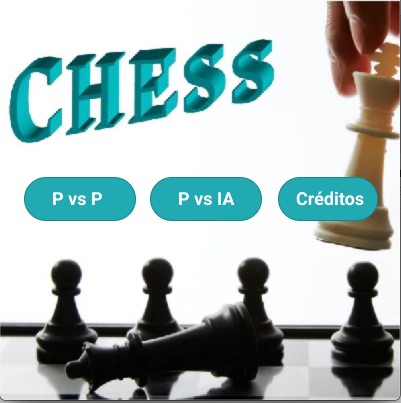
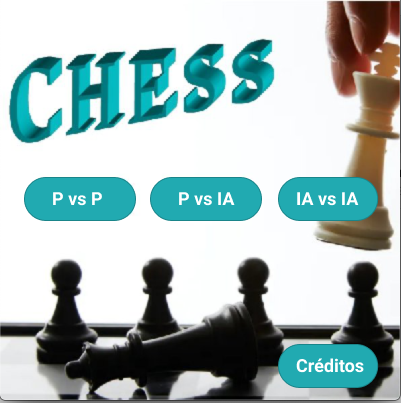
botão IAvsIA adicionado

Changed region(s): [[0.6883, 0.8337, 0.9576, 0.9826], [0.7182, 0.4764, 0.9277, 0.5062]]

diff --git a/main.py b/main.py
@@ -84,13 +84,15 @@ def main():
                         ia_on = True
                         ia_vs_ia = False
                     elif has_clicked_on_credits(mouse_x, mouse_y):
-                        show_credits_screen(match)
+                        #show_credits_screen(match)
+                        show_menu_screen(match)
                     elif has_clicked_on_go_to_menu(mouse_x, mouse_y):
                         show_menu_screen(match)
                         
                     elif has_clicked_on_ia_vs_ia(mouse_x, mouse_y):
-                        ia_vs_ia = True
                         start_match(match, screen)
+                        ia_vs_ia = True
+                        ia_on = True
         
         pygame.display.update()
         clock.tick(40)
@@ -107,6 +109,8 @@ def start_match(match, screen):
 def show_menu_screen(match):
     if match.screen_name != Screens.MENU:
         match.screen_name = Screens.MENU
+    else:
+        show_credits_screen(match)
 
 
 def show_credits_screen(match):
@@ -115,22 +119,19 @@ def show_credits_screen(match):
 
 
 def has_clicked_on_go_to_menu(x, y):
-    return 300 <= x <= 360 and 320 <= y <= 360
+    return 45 <= x <= 125 and 320 <= y <= 360
 
 
 def has_clicked_on_p_vs_p(x, y):
     return 45 <= x <= 125 and 182 <= y <= 210
 
-
 def has_clicked_on_ia(x, y):
     return 158 <= x <= 242 and 182 <= y <= 210
 
-def has_clicked_on_ia_vs_ia(x, y):
-    return 45 <= x <= 125 and 282 <= y <= 310
-
-
-
 def has_clicked_on_credits(x, y):
+    return 275 <= x <= 350 and 320 <= y <= 380
+
+def has_clicked_on_ia_vs_ia(x, y):
     return 275 <= x <= 350 and 182 <= y <= 210
 
 
